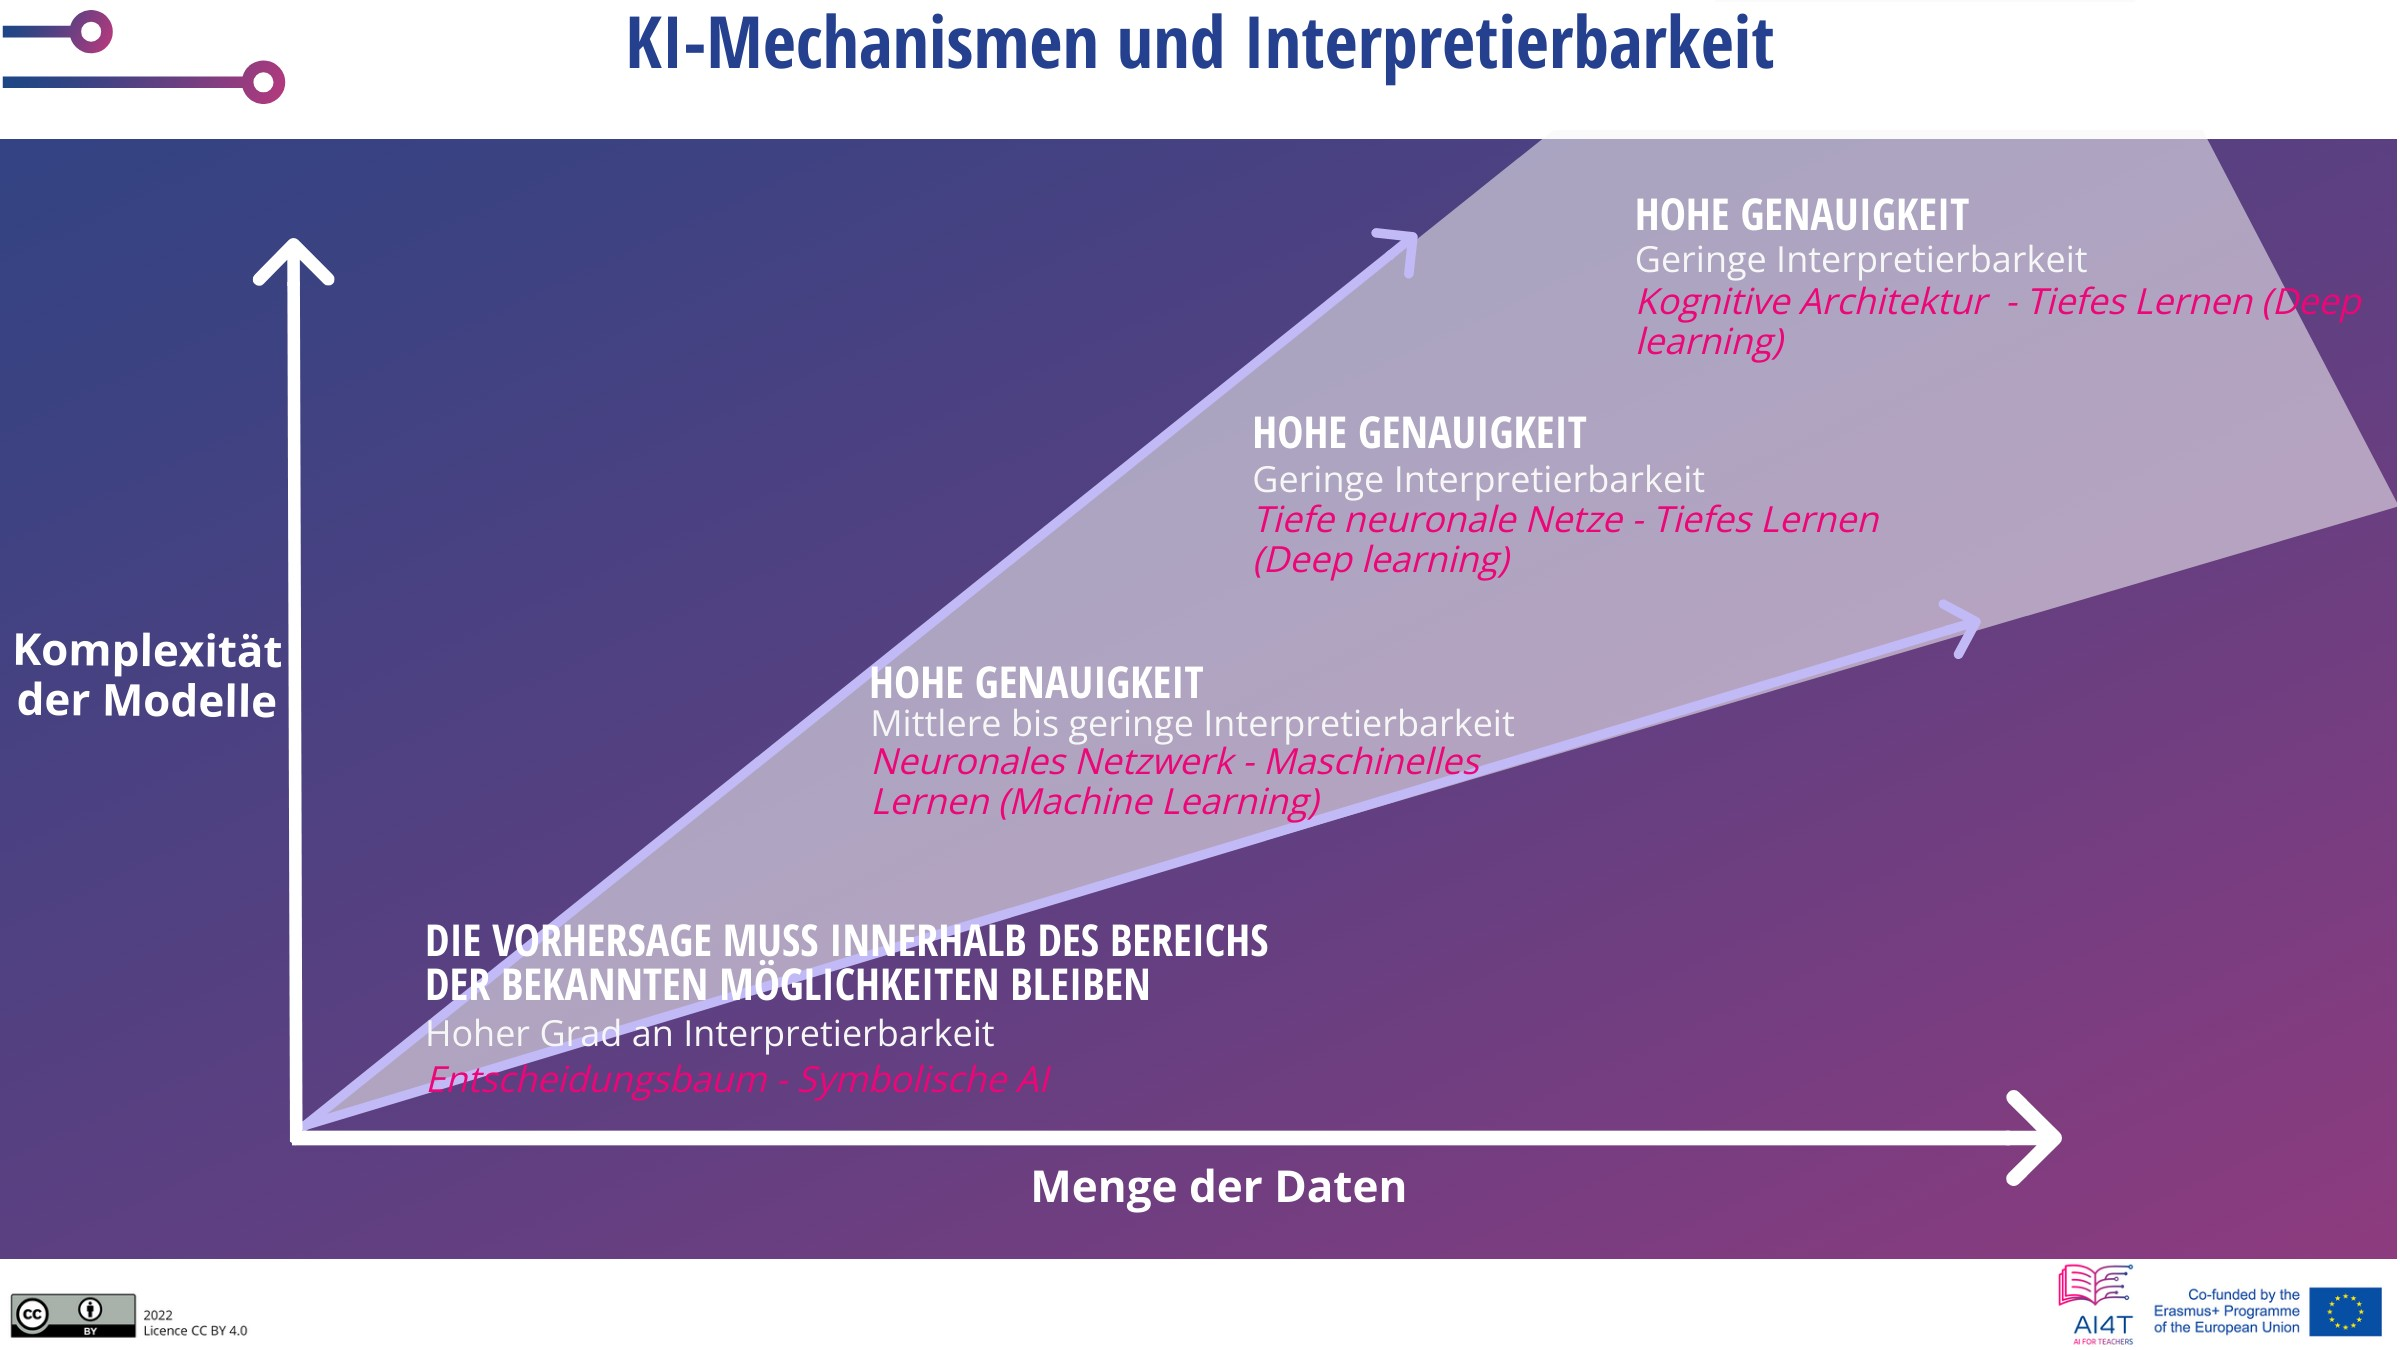
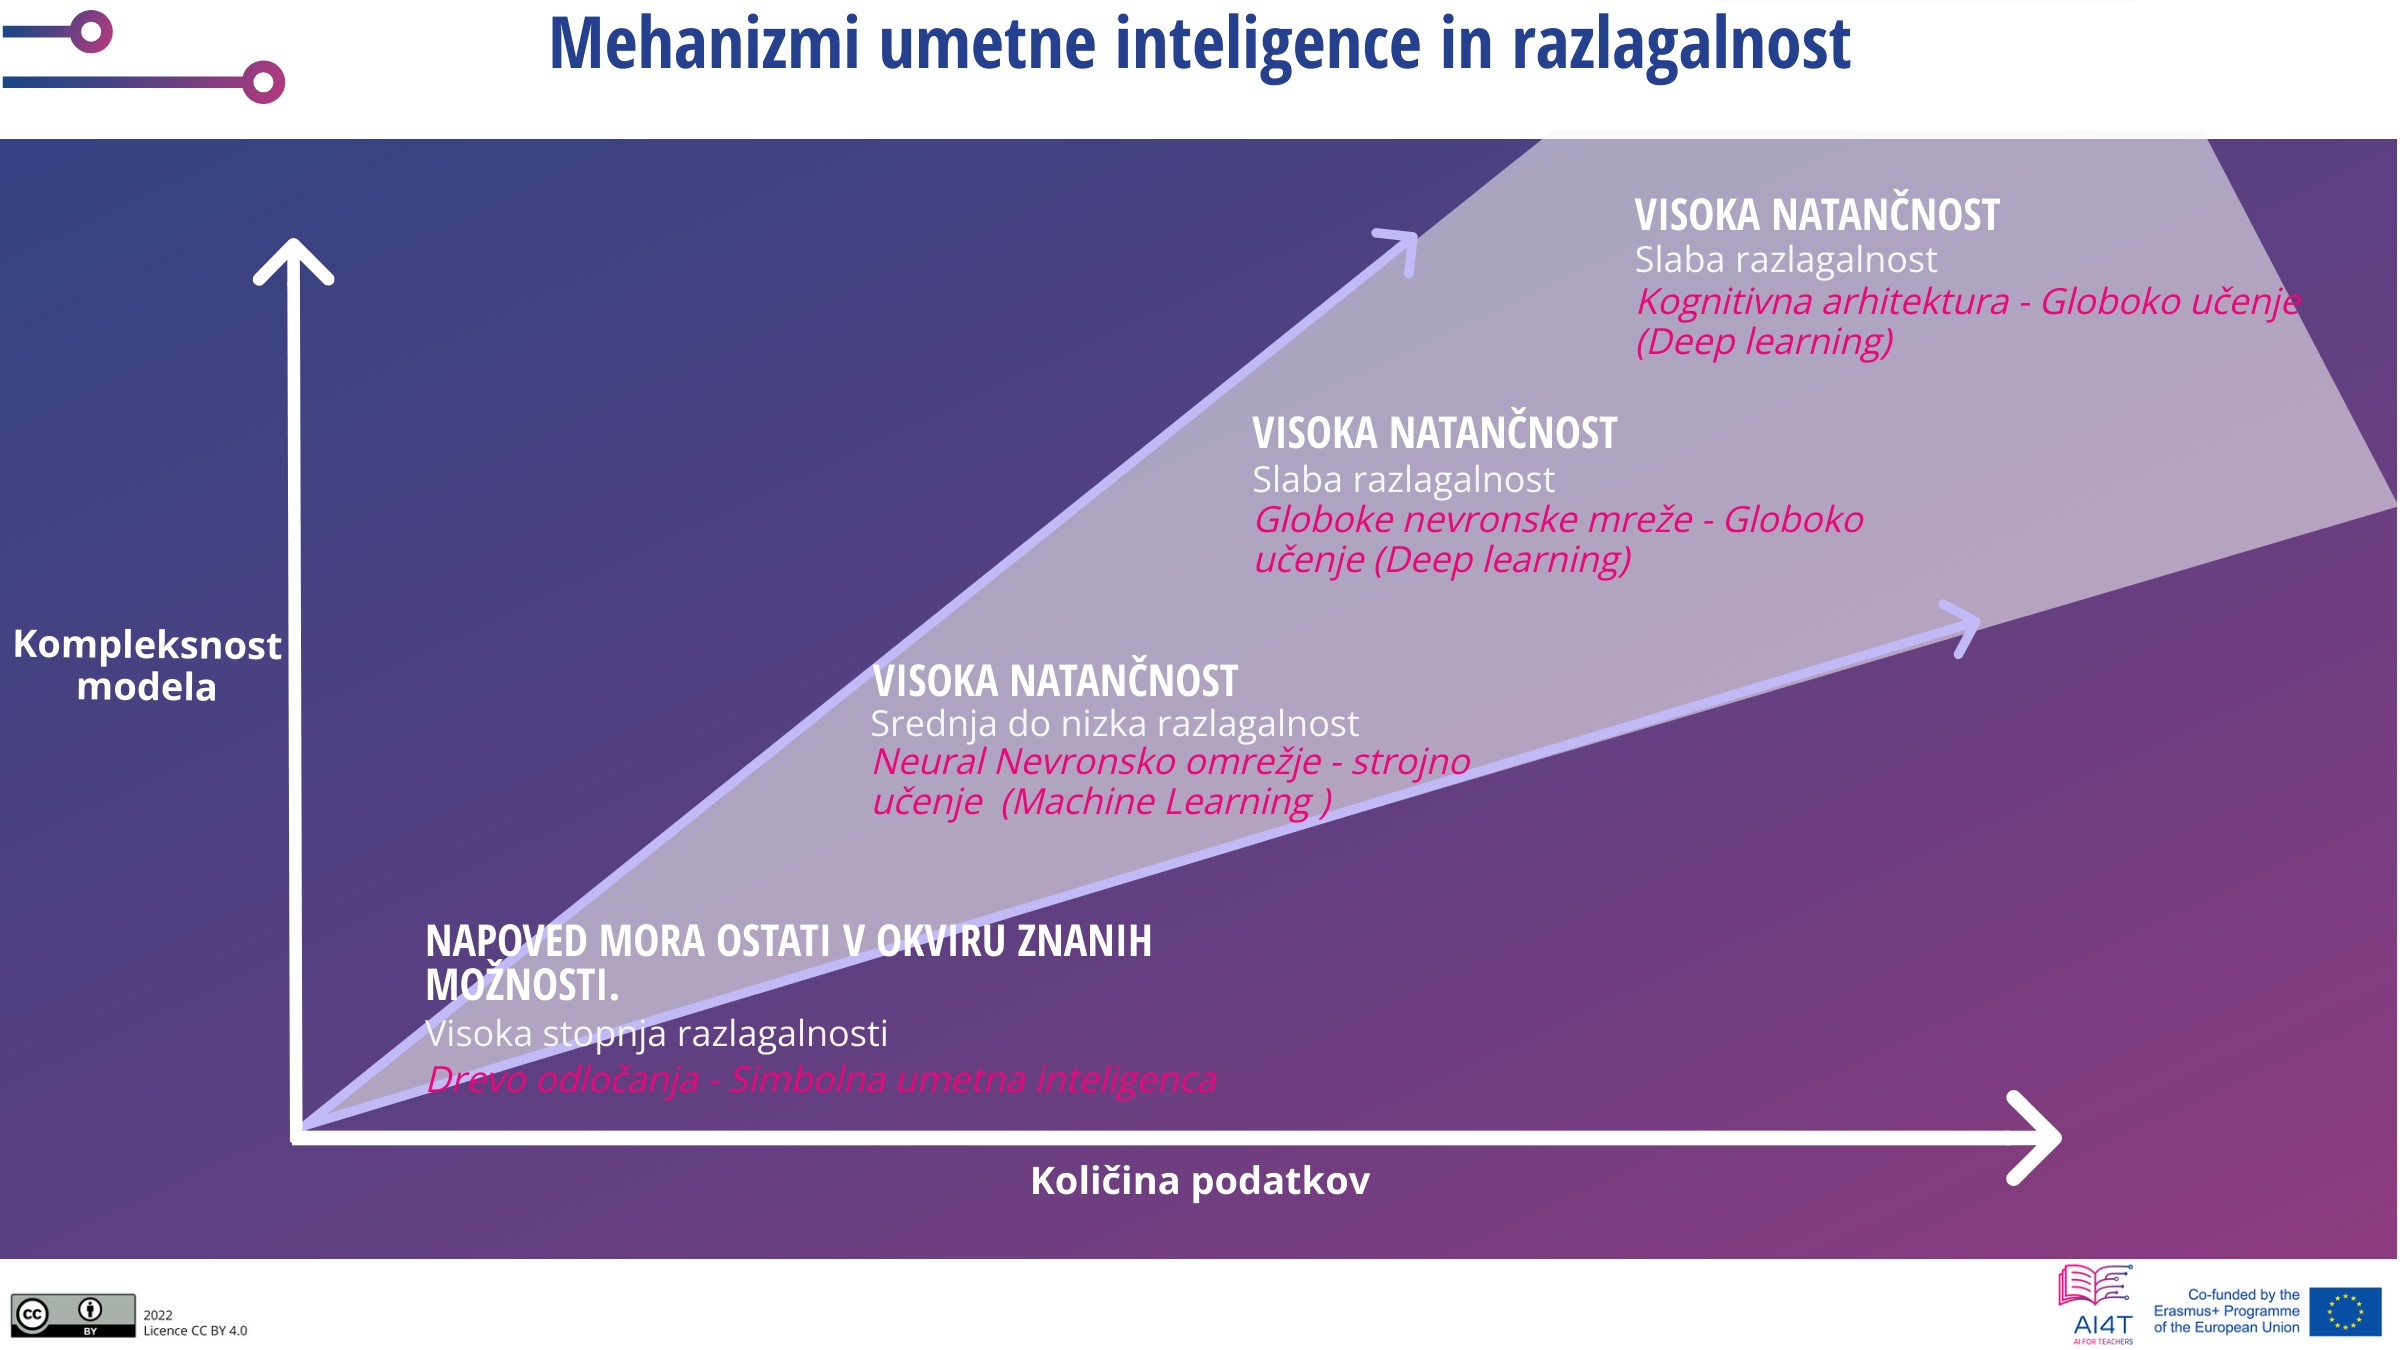
update visual 4-2-1 in 5 languages + correction

diff --git a/docs/1-Mooc/module-4-AI-at-our-service-as-teachers/4-2-imagine-teaching-with-ai/4-2-1-are-you-ready-to-trust-ai-for-decision-making.de.md b/docs/1-Mooc/module-4-AI-at-our-service-as-teachers/4-2-imagine-teaching-with-ai/4-2-1-are-you-ready-to-trust-ai-for-decision-making.de.md
@@ -44,7 +44,7 @@ So kann die Entscheidungshilfe, die von Werkzeugen mit geringer Interpretierbark
 Hier ist eine Darstellung, die die verwendete Technologie, ihre Komplexität und ihr strategisches Ergebnis in Beziehung setzt.
 
 <figure>
-  <img src="Images/Data-analysis-uses-from-description-to-prescription-HQ.jpg" alt="Representation of Data analysis uses from description to prescription." />
+  <img src="Images/Data-analysis-uses-from-description-to-prescription-HQ-DE.png" alt="Representation of Data analysis uses from description to prescription." />
 </figure>
 Abbildung 2: Klassifizierung des Einsatzes von Datenanalyse von der Beschreibung bis zur Verordnung[^3] (angepasst aus dem Video "Learning Analytics" dieses Kurses).
 

diff --git a/docs/1-Mooc/module-4-AI-at-our-service-as-teachers/4-2-imagine-teaching-with-ai/4-2-1-are-you-ready-to-trust-ai-for-decision-making.it.md b/docs/1-Mooc/module-4-AI-at-our-service-as-teachers/4-2-imagine-teaching-with-ai/4-2-1-are-you-ready-to-trust-ai-for-decision-making.it.md
@@ -44,7 +44,7 @@ Pertanto, il supporto decisionale fornito da strumenti a bassa interpretabilità
 Ecco una rappresentazione che mette in relazione la tecnologia utilizzata, la sua complessità e il suo risultato strategico.
 
 <figure>
-  <img src="Images/Data-analysis-uses-from-description-to-prescription-HQ.jpg" alt="Representation of Data analysis uses from description to prescription." />
+  <img src="Images/Data-analysis-uses-from-description-to-prescription-HQ-IT.jpg" alt="Representation of Data analysis uses from description to prescription." />
 </figure>
 Figura 2: Classificazione dell'uso dell'analisi dei dati dalla descrizione alla prescrizione[^3] (adattata dal video "Learning Analytics" di questo corso).
 

diff --git a/docs/1-Mooc/module-4-AI-at-our-service-as-teachers/4-2-imagine-teaching-with-ai/4-2-1-are-you-ready-to-trust-ai-for-decision-making.en.md b/docs/1-Mooc/module-4-AI-at-our-service-as-teachers/4-2-imagine-teaching-with-ai/4-2-1-are-you-ready-to-trust-ai-for-decision-making.en.md
@@ -44,7 +44,7 @@ Thus, the decision support provided by tools with low interpretability can be mo
 Here is a representation that relates the technology used, its complexity and its strategic outcome.
 
 <figure> 
-  <img src="Images/Data-analysis-uses-from-description-to-prescription-HQ.jpg" alt="Representation of Data analysis uses from description to prescription." /> 
+  <img src="Images/Data-analysis-uses-from-description-to-prescription-HQ-EN.jpg" alt="Representation of Data analysis uses from description to prescription." /> 
 </figure>
 _Figure 2: Classification of data analysis use from description to prescription[^3] (Adapted from the "Learning Analytics" video of this course)._
 

diff --git a/docs/1-Mooc/module-4-AI-at-our-service-as-teachers/4-2-imagine-teaching-with-ai/4-2-1-are-you-ready-to-trust-ai-for-decision-making.sl.md b/docs/1-Mooc/module-4-AI-at-our-service-as-teachers/4-2-imagine-teaching-with-ai/4-2-1-are-you-ready-to-trust-ai-for-decision-making.sl.md
@@ -44,7 +44,7 @@ Tako je lahko podpora pri odločanju, ki jo zagotavljajo orodja z nizko razložl
 Tukaj je prikaz, ki povezuje uporabljeno tehnologijo, njeno zapletenost in strateški rezultat.
 
 <figure>
-  <img src="Images/Data-analysis-uses-from-description-to-prescription-HQ.jpg" alt="Representation of Data analysis uses from description to prescription." />
+  <img src="Images/Data-analysis-uses-from-description-to-prescription-HQ-SI.png" alt="Representation of Data analysis uses from description to prescription." />
 </figure>
 _Slika 2: Razvrstitev uporabe analize podatkov od opisa do predpisa[^3] (povzeto po videoposnetku "Learning Analytics" tega predmeta)._
 
